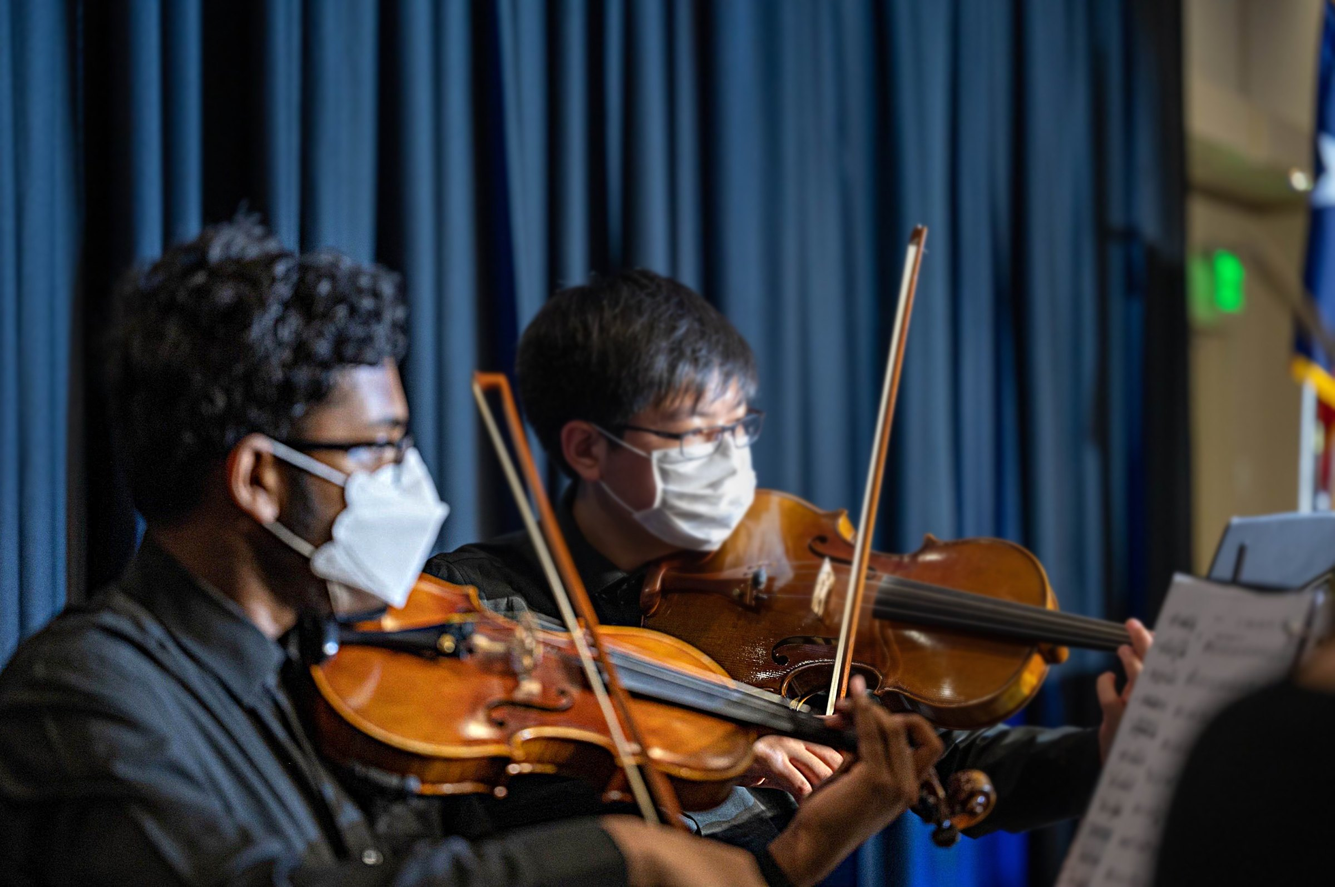
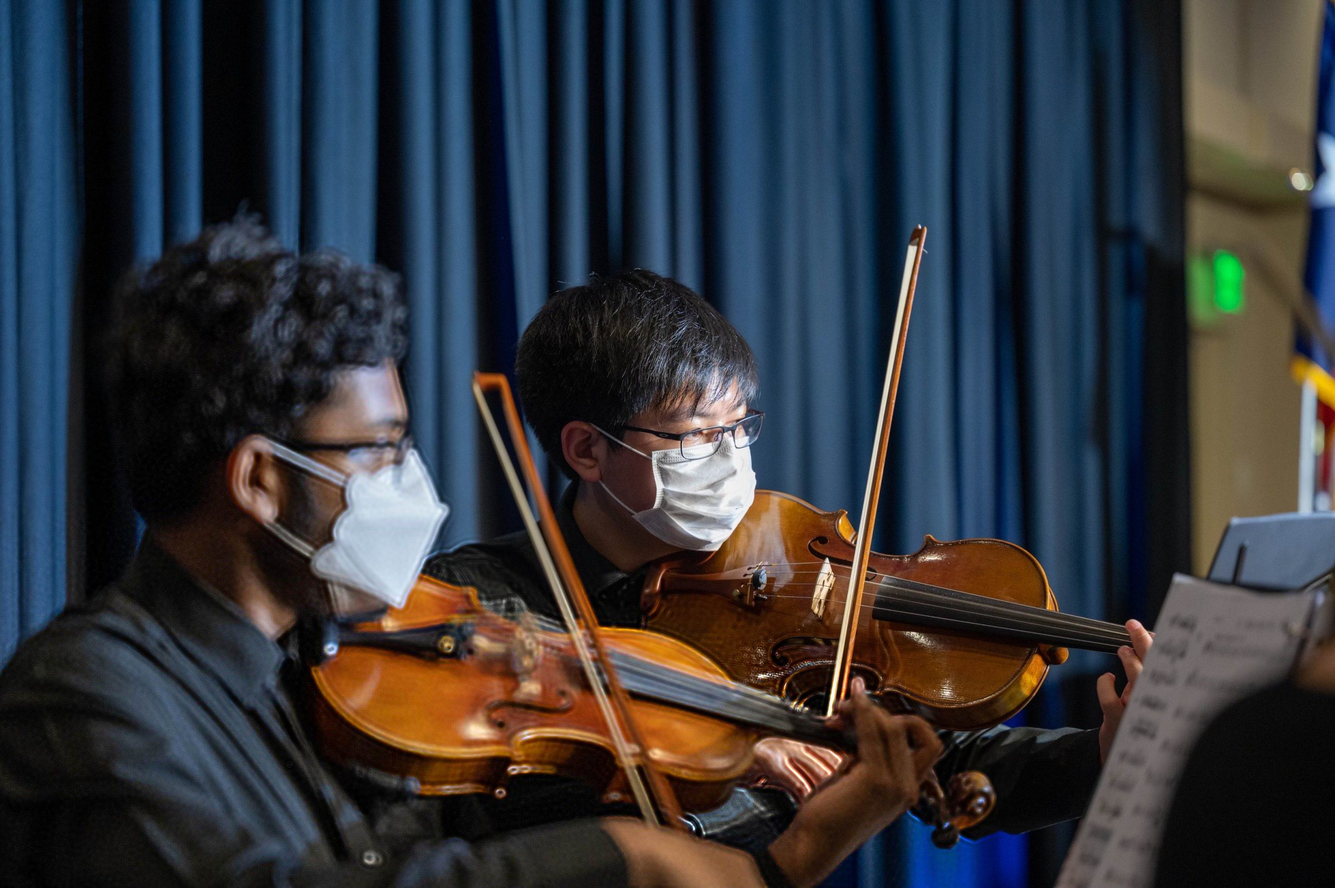
Feedback link under the WIP box; deblurred orchestra photo (Richardson-Lucy, disk PSF)

diff --git a/about.html b/about.html
@@ -8,7 +8,7 @@
 <link rel="preconnect" href="https://fonts.googleapis.com">
 <link rel="preconnect" href="https://fonts.gstatic.com" crossorigin>
 <link href="https://fonts.googleapis.com/css2?family=Geist:wght@400;500;600&display=swap" rel="stylesheet">
-<link rel="stylesheet" href="assets/css/site.css?v=8bcaaa6e">
+<link rel="stylesheet" href="assets/css/site.css?v=6924c201">
 </head>
 <body>
 <a class="skip" href="#main">Skip to content</a>
@@ -48,7 +48,7 @@
       <p>I've been a member of, and led, teams from 5 to 165 people. On WPI VEX U I have held several roles over the years: secretary, marketing head/media lead, build lead, driver and programmer. Since my freshman year I've helped build and program robots for the team's most successful, record-setting seasons. Building two robots for the VEX U World Championship whose designs and match strategies complement each other is the challenge I enjoy most, and it's where my interest in multi-robot systems comes from.</p>
       <p>Teaching and outreach have been a big part of robotics for me. In high school I helped organize more than sixty outreach and community events, mentored robotics teams, and taught STEM camps. As the Robotics Outreach Assistant with WPI Admissions, I organized robotics events, worked with FIRST and VEX/RECF, made Admissions content, and analyzed applicant and alumni data to plan outreach. I've also volunteered more than 400 hours at robotics competitions.</p>
       <p>I play violin in the WPI Orchestra, and have played for 10 years, through middle school and high school.</p>
-      <figure class="figure"><img src="assets/img/activities/orchestra_wpi.jpg" alt="Playing violin with the WPI orchestra." width="2400" height="1596" decoding="async" decoding="async" loading="lazy"></figure>
+      <figure class="figure"><img src="assets/img/activities/orchestra_wpi.jpg" alt="Playing violin with the WPI orchestra." width="2400" height="1597" decoding="async" decoding="async" loading="lazy"></figure>
     </div>
   </div>
 </section>
@@ -65,7 +65,7 @@
 </section>
 
 </main>
-<p class="wip">Work in progress</p>
+<div class="wip-box"><p class="wip">Work in progress</p><a class="feedback" href="mailto:vishesh-konduru@outlook.com?subject=Portfolio%20feedback">Feedback</a></div>
 <footer class="site-foot">
   <div class="wrap">
     <span>Vishesh Konduru</span>

diff --git a/activities.html b/activities.html
@@ -8,7 +8,7 @@
 <link rel="preconnect" href="https://fonts.googleapis.com">
 <link rel="preconnect" href="https://fonts.gstatic.com" crossorigin>
 <link href="https://fonts.googleapis.com/css2?family=Geist:wght@400;500;600&display=swap" rel="stylesheet">
-<link rel="stylesheet" href="assets/css/site.css?v=8bcaaa6e">
+<link rel="stylesheet" href="assets/css/site.css?v=6924c201">
 </head>
 <body>
 <a class="skip" href="#main">Skip to content</a>
@@ -56,7 +56,7 @@
 <p class="act-years">High school and WPI</p><p class="act-role">Violin</p>
 <div class="prose"><p>I play in orchestra at WPI, and did in high school.</p></div>
 <figure class="figure todo-text"><div class="todo">More coming soon.</div></figure>
-<div class="act-more"><figure class="figure "><img src="assets/img/activities/orchestra_wpi.jpg" alt="Playing violin in a string section, left." decoding="async" loading="lazy" width="2400" height="1596"><figcaption>Playing violin in a string section, left.</figcaption></figure></div>
+<div class="act-more"><figure class="figure "><img src="assets/img/activities/orchestra_wpi.jpg" alt="Playing violin in a string section, left." decoding="async" loading="lazy" width="2400" height="1597"><figcaption>Playing violin in a string section, left.</figcaption></figure></div>
 </template><template id="act-sase" data-label="SASE">
 <h2 class="act-title" id="act-title">SASE, Society of Asian Scientists and Engineers</h2>
 
@@ -98,7 +98,7 @@
 <script src="assets/js/activities.js?v=89e7eb29" defer></script>
 
 </main>
-<p class="wip">Work in progress</p>
+<div class="wip-box"><p class="wip">Work in progress</p><a class="feedback" href="mailto:vishesh-konduru@outlook.com?subject=Portfolio%20feedback">Feedback</a></div>
 <footer class="site-foot">
   <div class="wrap">
     <span>Vishesh Konduru</span>

diff --git a/assets/css/site.css b/assets/css/site.css
@@ -412,9 +412,13 @@ dialog.lb img { max-width: calc(100vw - 48px); max-height: calc(100vh - 96px); w
   .jg-frame .todo { font-size: 14px; padding: 8px; }
 }
 
-.wip { position: fixed; right: 16px; bottom: 16px; z-index: 50; margin: 0; padding: 8px 14px; background: #c62828; color: #fff; font-size: 14px; font-weight: 600; letter-spacing: .02em; border-radius: 4px; }
+.wip-box { position: fixed; right: 16px; bottom: 16px; z-index: 50; display: flex; flex-direction: column; align-items: stretch; gap: 8px; }
+.wip { margin: 0; padding: 8px 14px; background: #c62828; color: #fff; font-size: 14px; font-weight: 600; letter-spacing: .02em; border-radius: 4px; text-align: center; }
+.feedback { display: flex; align-items: center; justify-content: center; min-height: 44px; padding: 0 14px; background: var(--paper); color: var(--ink); border: 1px solid var(--ink); border-radius: 4px; font-size: 14px; font-weight: 600; text-decoration: none; }
+.feedback:hover { background: var(--ink); color: var(--paper); }
+.feedback:focus-visible { outline: 2px solid var(--ink); outline-offset: 2px; }
 /* On phones the box sits at the end of the page instead of over the demo controls. */
-@media (max-width: 720px) { .wip { position: static; display: block; width: max-content; margin: 0 var(--pad) 16px auto; } }
+@media (max-width: 720px) { .wip-box { position: static; width: max-content; margin: 0 var(--pad) 16px auto; } }
 
 /* ---------- lite mode ---------- */
 .lite-toggle { font: inherit; font-size: 16px; color: var(--ink-2); background: none; border: 0; padding: 0; margin: -12px 0; min-height: 44px; cursor: pointer; }

diff --git a/projects/heimdall.html b/projects/heimdall.html
@@ -8,7 +8,7 @@
 <link rel="preconnect" href="https://fonts.googleapis.com">
 <link rel="preconnect" href="https://fonts.gstatic.com" crossorigin>
 <link href="https://fonts.googleapis.com/css2?family=Geist:wght@400;500;600&display=swap" rel="stylesheet">
-<link rel="stylesheet" href="../assets/css/site.css?v=8bcaaa6e">
+<link rel="stylesheet" href="../assets/css/site.css?v=6924c201">
 </head>
 <body>
 <a class="skip" href="#main">Skip to content</a>
@@ -45,7 +45,7 @@
 </div></section>
 
 </main>
-<p class="wip">Work in progress</p>
+<div class="wip-box"><p class="wip">Work in progress</p><a class="feedback" href="mailto:vishesh-konduru@outlook.com?subject=Portfolio%20feedback">Feedback</a></div>
 <footer class="site-foot">
   <div class="wrap">
     <span>Vishesh Konduru</span>

diff --git a/projects/iqp.html b/projects/iqp.html
@@ -8,7 +8,7 @@
 <link rel="preconnect" href="https://fonts.googleapis.com">
 <link rel="preconnect" href="https://fonts.gstatic.com" crossorigin>
 <link href="https://fonts.googleapis.com/css2?family=Geist:wght@400;500;600&display=swap" rel="stylesheet">
-<link rel="stylesheet" href="../assets/css/site.css?v=8bcaaa6e">
+<link rel="stylesheet" href="../assets/css/site.css?v=6924c201">
 </head>
 <body>
 <a class="skip" href="#main">Skip to content</a>
@@ -45,7 +45,7 @@
 </div></section>
 
 </main>
-<p class="wip">Work in progress</p>
+<div class="wip-box"><p class="wip">Work in progress</p><a class="feedback" href="mailto:vishesh-konduru@outlook.com?subject=Portfolio%20feedback">Feedback</a></div>
 <footer class="site-foot">
   <div class="wrap">
     <span>Vishesh Konduru</span>

diff --git a/projects/mapping.html b/projects/mapping.html
@@ -8,7 +8,7 @@
 <link rel="preconnect" href="https://fonts.googleapis.com">
 <link rel="preconnect" href="https://fonts.gstatic.com" crossorigin>
 <link href="https://fonts.googleapis.com/css2?family=Geist:wght@400;500;600&display=swap" rel="stylesheet">
-<link rel="stylesheet" href="../assets/css/site.css?v=8bcaaa6e">
+<link rel="stylesheet" href="../assets/css/site.css?v=6924c201">
 </head>
 <body>
 <a class="skip" href="#main">Skip to content</a>
@@ -45,7 +45,7 @@
 </div></section>
 
 </main>
-<p class="wip">Work in progress</p>
+<div class="wip-box"><p class="wip">Work in progress</p><a class="feedback" href="mailto:vishesh-konduru@outlook.com?subject=Portfolio%20feedback">Feedback</a></div>
 <footer class="site-foot">
   <div class="wrap">
     <span>Vishesh Konduru</span>

diff --git a/projects/mqp.html b/projects/mqp.html
@@ -8,7 +8,7 @@
 <link rel="preconnect" href="https://fonts.googleapis.com">
 <link rel="preconnect" href="https://fonts.gstatic.com" crossorigin>
 <link href="https://fonts.googleapis.com/css2?family=Geist:wght@400;500;600&display=swap" rel="stylesheet">
-<link rel="stylesheet" href="../assets/css/site.css?v=8bcaaa6e">
+<link rel="stylesheet" href="../assets/css/site.css?v=6924c201">
 </head>
 <body>
 <a class="skip" href="#main">Skip to content</a>
@@ -45,7 +45,7 @@
 </div></section>
 
 </main>
-<p class="wip">Work in progress</p>
+<div class="wip-box"><p class="wip">Work in progress</p><a class="feedback" href="mailto:vishesh-konduru@outlook.com?subject=Portfolio%20feedback">Feedback</a></div>
 <footer class="site-foot">
   <div class="wrap">
     <span>Vishesh Konduru</span>

diff --git a/projects/rbe3001.html b/projects/rbe3001.html
@@ -8,7 +8,7 @@
 <link rel="preconnect" href="https://fonts.googleapis.com">
 <link rel="preconnect" href="https://fonts.gstatic.com" crossorigin>
 <link href="https://fonts.googleapis.com/css2?family=Geist:wght@400;500;600&display=swap" rel="stylesheet">
-<link rel="stylesheet" href="../assets/css/site.css?v=8bcaaa6e">
+<link rel="stylesheet" href="../assets/css/site.css?v=6924c201">
 </head>
 <body>
 <a class="skip" href="#main">Skip to content</a>
@@ -45,7 +45,7 @@
 </div></section>
 
 </main>
-<p class="wip">Work in progress</p>
+<div class="wip-box"><p class="wip">Work in progress</p><a class="feedback" href="mailto:vishesh-konduru@outlook.com?subject=Portfolio%20feedback">Feedback</a></div>
 <footer class="site-foot">
   <div class="wrap">
     <span>Vishesh Konduru</span>

diff --git a/projects/tables4u.html b/projects/tables4u.html
@@ -8,7 +8,7 @@
 <link rel="preconnect" href="https://fonts.googleapis.com">
 <link rel="preconnect" href="https://fonts.gstatic.com" crossorigin>
 <link href="https://fonts.googleapis.com/css2?family=Geist:wght@400;500;600&display=swap" rel="stylesheet">
-<link rel="stylesheet" href="../assets/css/site.css?v=8bcaaa6e">
+<link rel="stylesheet" href="../assets/css/site.css?v=6924c201">
 </head>
 <body>
 <a class="skip" href="#main">Skip to content</a>
@@ -45,7 +45,7 @@
 </div></section>
 
 </main>
-<p class="wip">Work in progress</p>
+<div class="wip-box"><p class="wip">Work in progress</p><a class="feedback" href="mailto:vishesh-konduru@outlook.com?subject=Portfolio%20feedback">Feedback</a></div>
 <footer class="site-foot">
   <div class="wrap">
     <span>Vishesh Konduru</span>

diff --git a/projects/ultrasound.html b/projects/ultrasound.html
@@ -8,7 +8,7 @@
 <link rel="preconnect" href="https://fonts.googleapis.com">
 <link rel="preconnect" href="https://fonts.gstatic.com" crossorigin>
 <link href="https://fonts.googleapis.com/css2?family=Geist:wght@400;500;600&display=swap" rel="stylesheet">
-<link rel="stylesheet" href="../assets/css/site.css?v=8bcaaa6e">
+<link rel="stylesheet" href="../assets/css/site.css?v=6924c201">
 </head>
 <body>
 <a class="skip" href="#main">Skip to content</a>
@@ -45,7 +45,7 @@
 </div></section>
 
 </main>
-<p class="wip">Work in progress</p>
+<div class="wip-box"><p class="wip">Work in progress</p><a class="feedback" href="mailto:vishesh-konduru@outlook.com?subject=Portfolio%20feedback">Feedback</a></div>
 <footer class="site-foot">
   <div class="wrap">
     <span>Vishesh Konduru</span>

diff --git a/projects/ur5e.html b/projects/ur5e.html
@@ -8,7 +8,7 @@
 <link rel="preconnect" href="https://fonts.googleapis.com">
 <link rel="preconnect" href="https://fonts.gstatic.com" crossorigin>
 <link href="https://fonts.googleapis.com/css2?family=Geist:wght@400;500;600&display=swap" rel="stylesheet">
-<link rel="stylesheet" href="../assets/css/site.css?v=8bcaaa6e">
+<link rel="stylesheet" href="../assets/css/site.css?v=6924c201">
 </head>
 <body>
 <a class="skip" href="#main">Skip to content</a>
@@ -45,7 +45,7 @@
 </div></section>
 
 </main>
-<p class="wip">Work in progress</p>
+<div class="wip-box"><p class="wip">Work in progress</p><a class="feedback" href="mailto:vishesh-konduru@outlook.com?subject=Portfolio%20feedback">Feedback</a></div>
 <footer class="site-foot">
   <div class="wrap">
     <span>Vishesh Konduru</span>

diff --git a/index.html b/index.html
@@ -8,7 +8,7 @@
 <link rel="preconnect" href="https://fonts.googleapis.com">
 <link rel="preconnect" href="https://fonts.gstatic.com" crossorigin>
 <link href="https://fonts.googleapis.com/css2?family=Geist:wght@400;500;600&display=swap" rel="stylesheet">
-<link rel="stylesheet" href="assets/css/site.css?v=8bcaaa6e">
+<link rel="stylesheet" href="assets/css/site.css?v=6924c201">
 </head>
 <body>
 <a class="skip" href="#main">Skip to content</a>
@@ -127,7 +127,7 @@
 </section>
 
 </main>
-<p class="wip">Work in progress</p>
+<div class="wip-box"><p class="wip">Work in progress</p><a class="feedback" href="mailto:vishesh-konduru@outlook.com?subject=Portfolio%20feedback">Feedback</a></div>
 <footer class="site-foot">
   <div class="wrap">
     <span>Vishesh Konduru</span>
